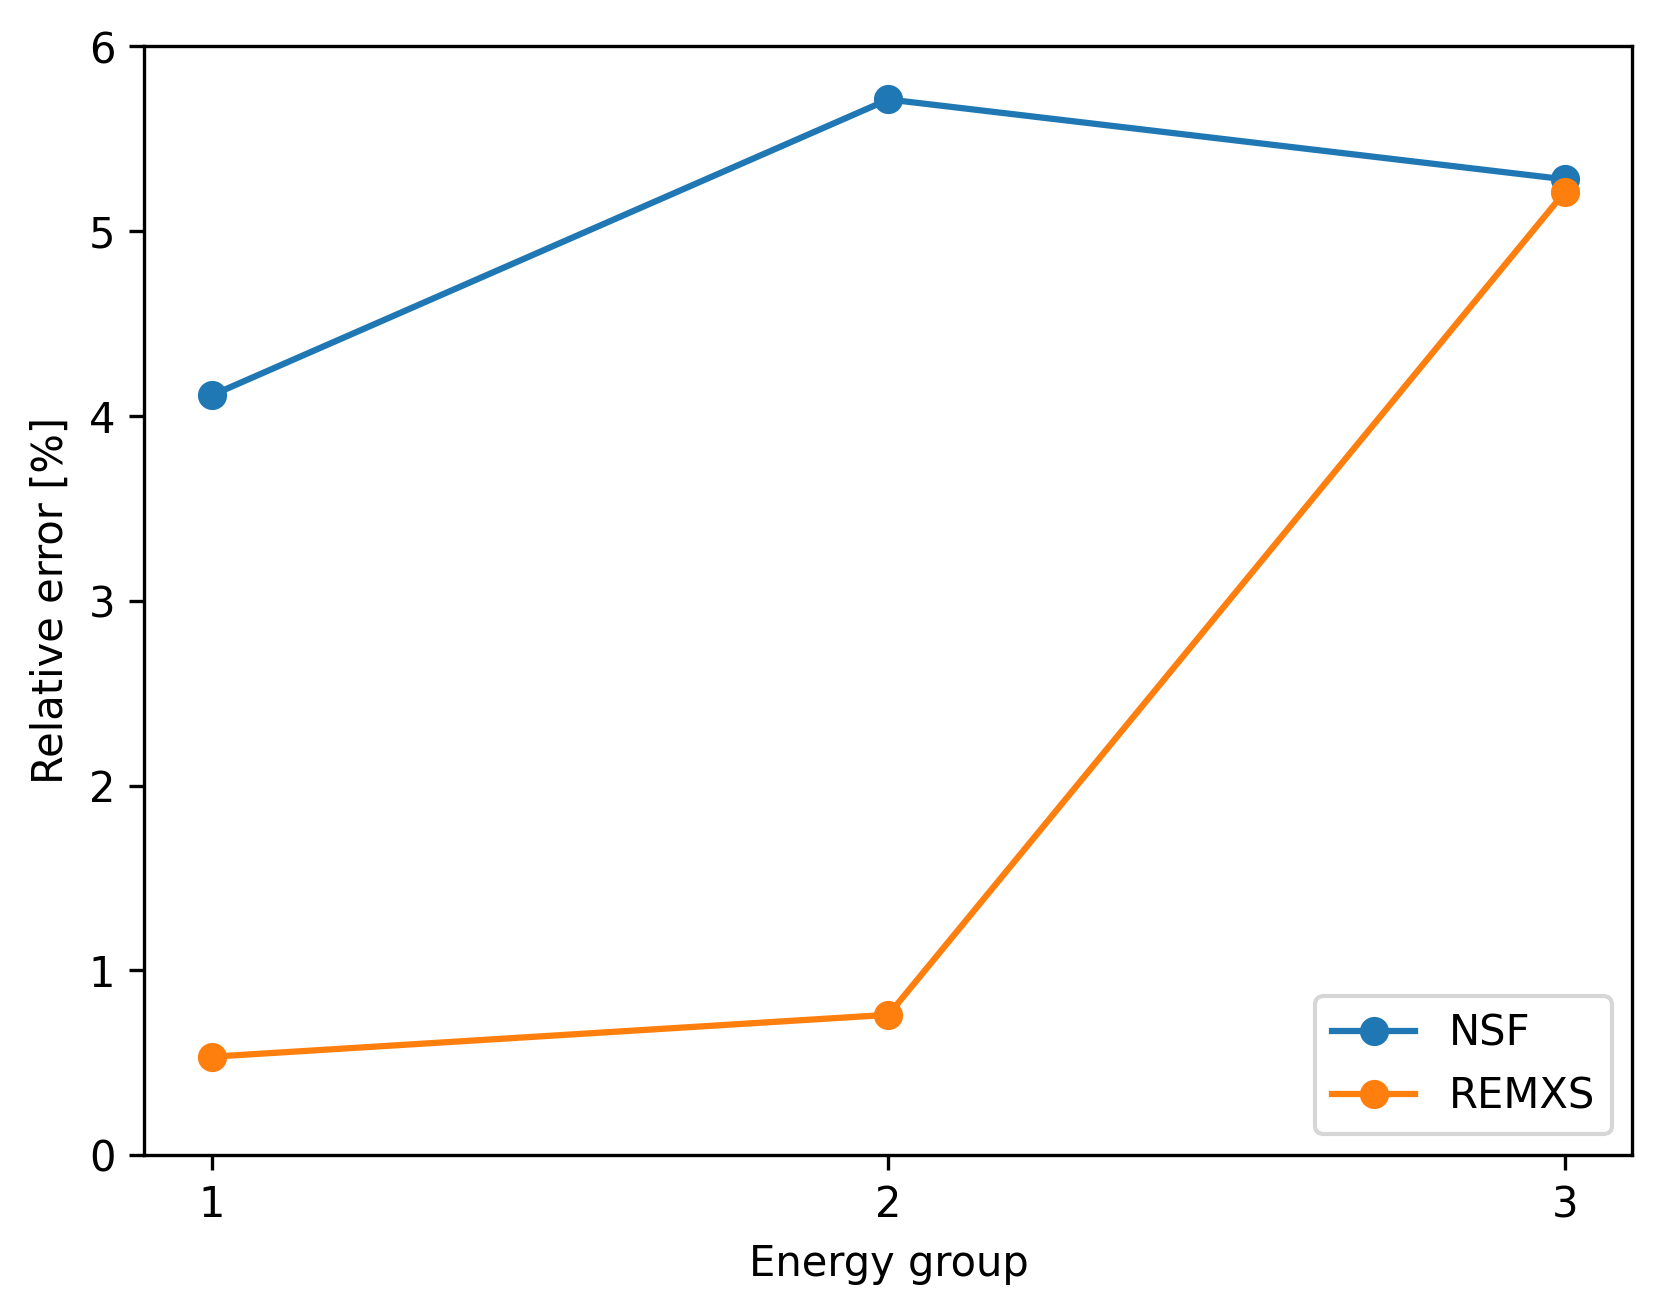
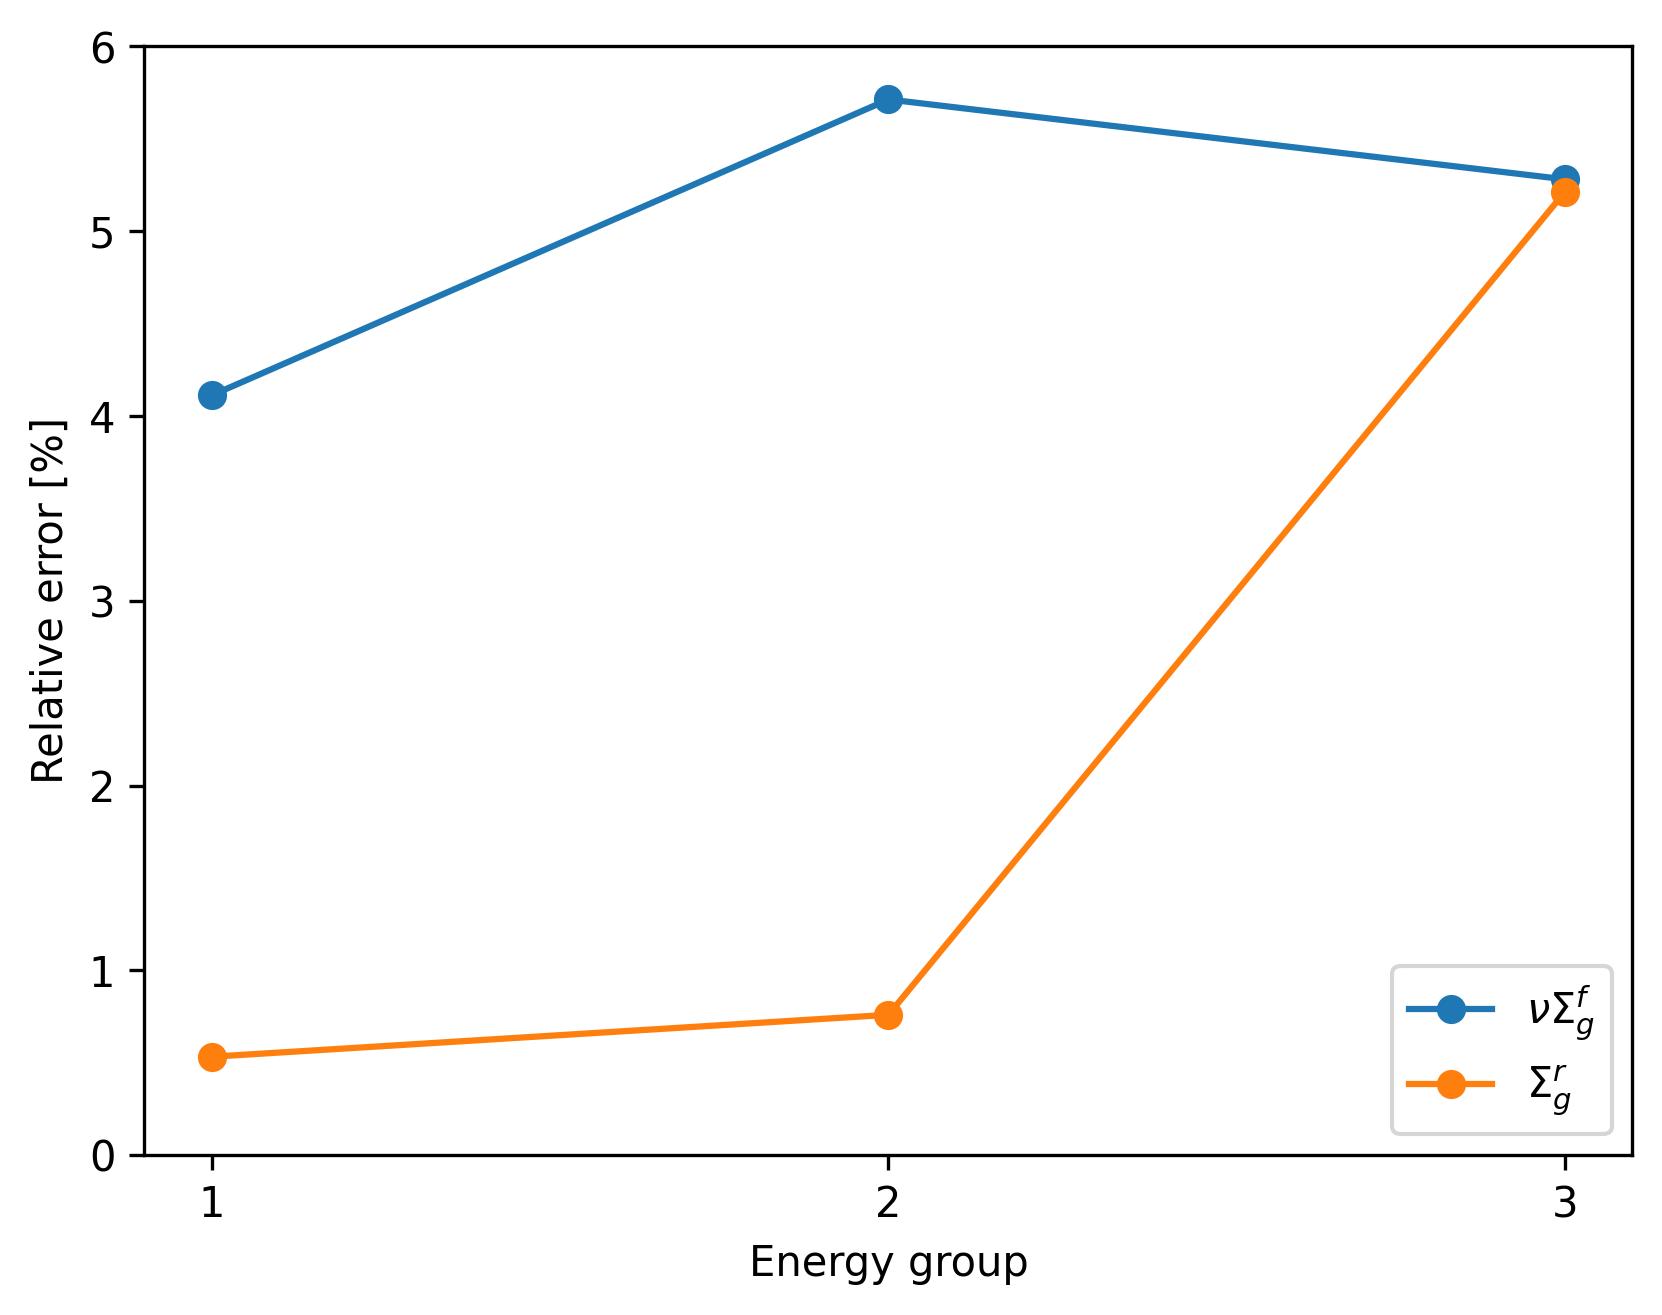
changes in labels in plots

Changed region(s): [[0.7978, 0.7483, 0.9819, 0.873]]

diff --git a/oecd/xsections/compare.py b/oecd/xsections/compare.py
@@ -34,7 +34,10 @@ def getxs():
         print(param)
         print(rel_err)
 
-        plt.plot([1, 2, 3], rel_err, marker='o', label=param)
+        if param == 'NSF':
+            plt.plot([1, 2, 3], rel_err, marker='o', label=r'$\nu\Sigma^f_g$')
+        elif param == 'REMXS':
+            plt.plot([1, 2, 3], rel_err, marker='o', label=r'$\Sigma^r_g$')
 
     plt.legend(loc='lower right')
     plt.ylim(bottom=0, top=6)
